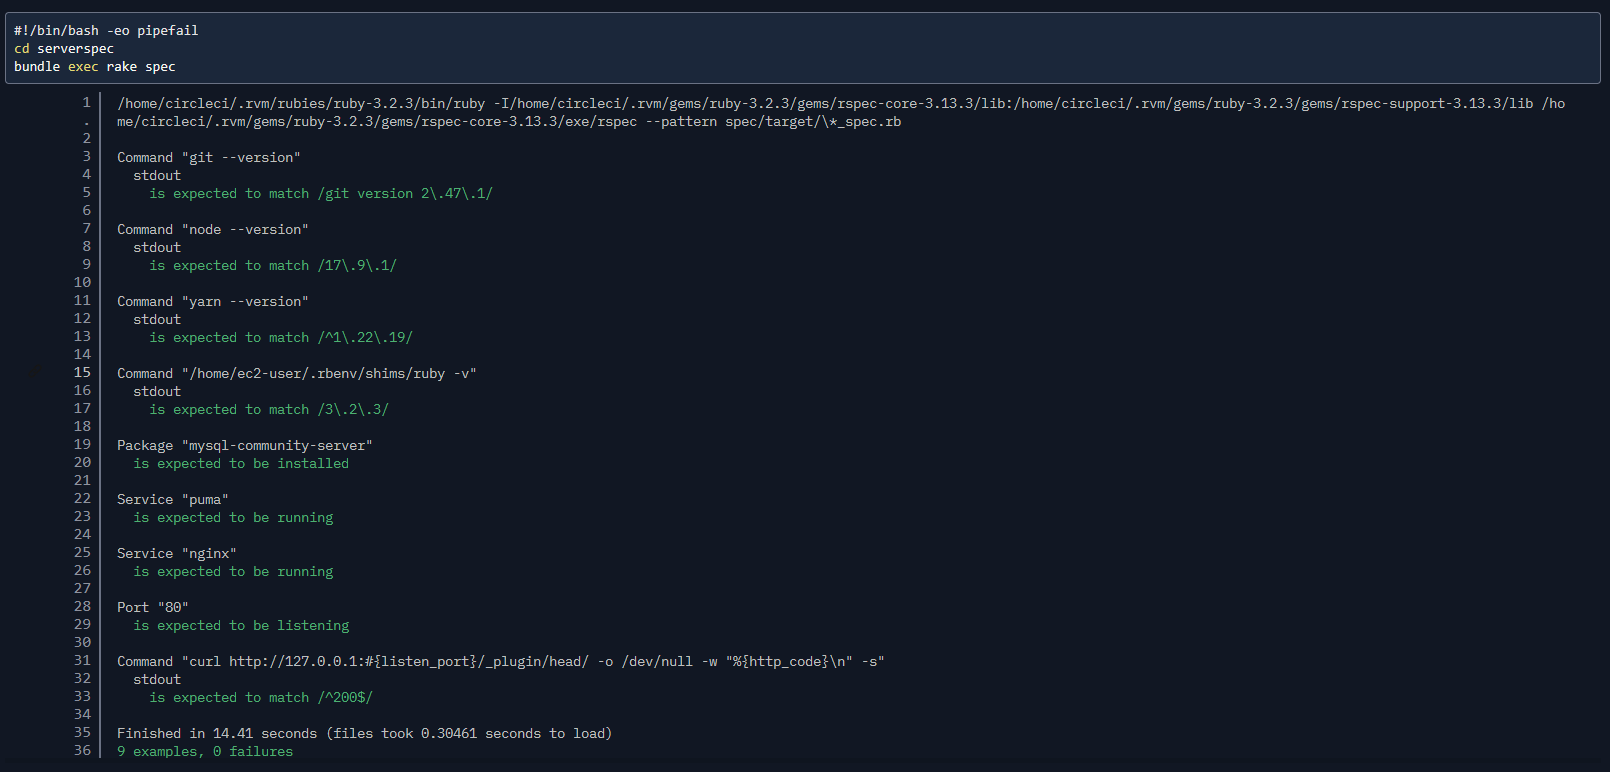
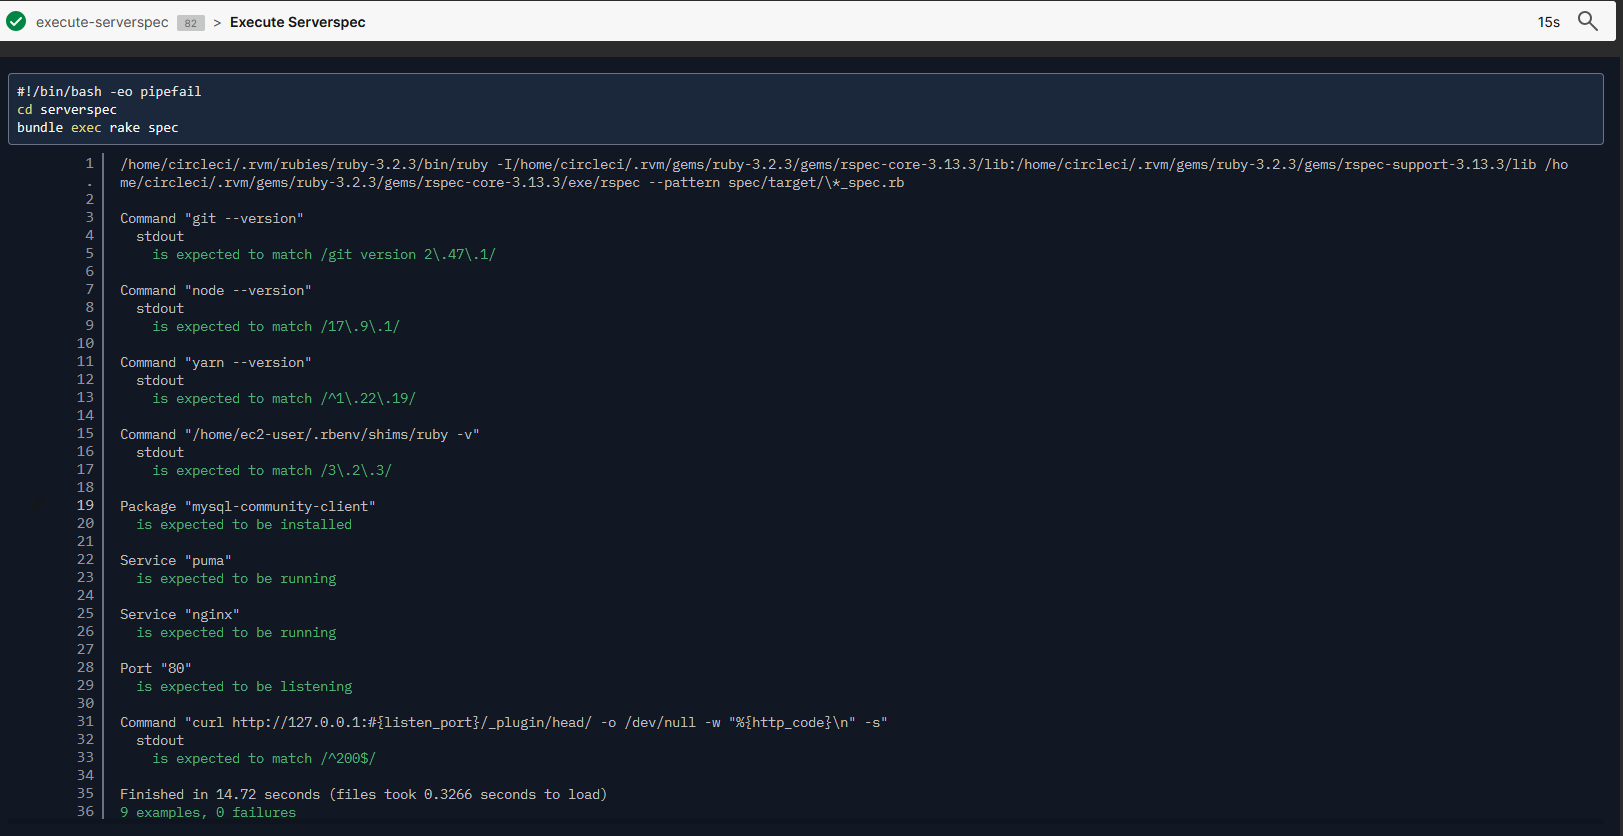
'mysql-community-client`に変更

Changed region(s): [[0.0, 0.0, 1.0, 1.0]]

diff --git a/lecture13/Lecture13-Ansible/serverspec/spec/target/sample_spec.rb b/lecture13/Lecture13-Ansible/serverspec/spec/target/sample_spec.rb
@@ -20,7 +20,7 @@ describe command('/home/ec2-user/.rbenv/shims/ruby -v') do
     its(:stdout) { should match /3\.2\.3/ }
 end
 
-describe package('mysql-community-server') do
+describe package('mysql-community-client') do
     it { should be_installed }
 end
 
